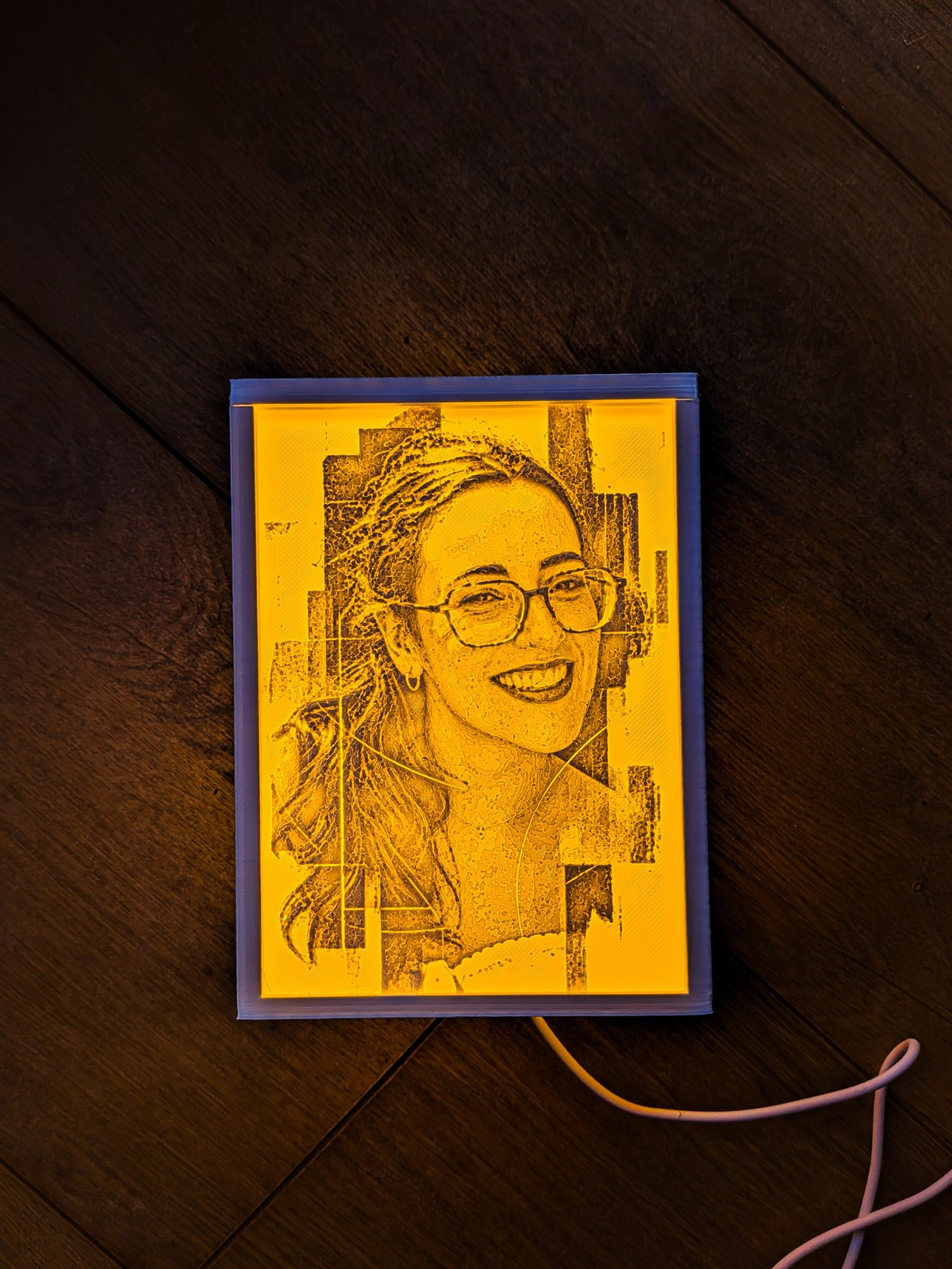
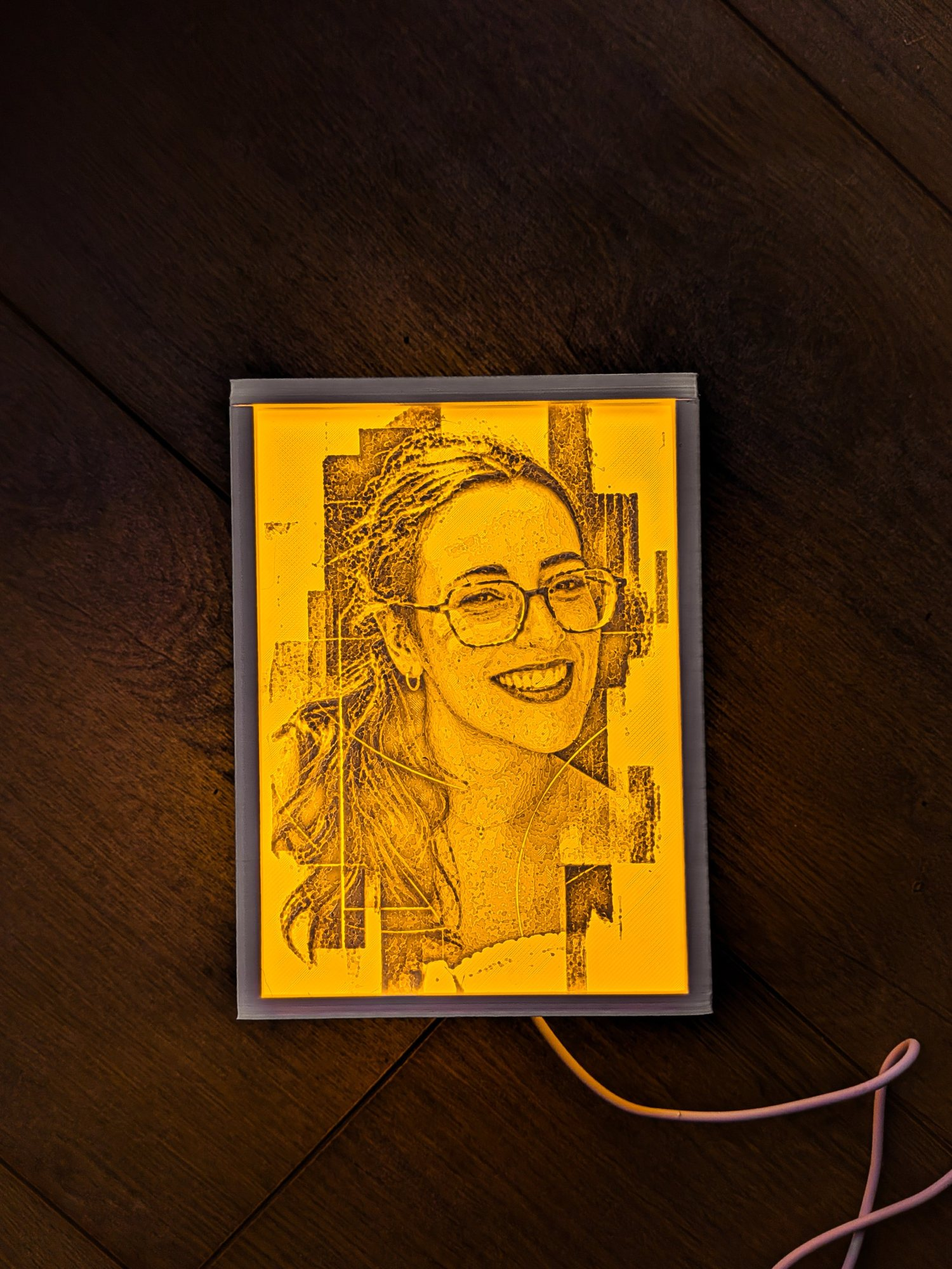
Colour grading: second (vertical) film with the same controls; films pause when scrolled past; title line; new lamp cover
Claude-Session: https://claude.ai/code/session_016ZKoocUMpGUNjfP95pTU22

Changed region(s): [[0.2147, 0.279, 0.736, 0.589], [0.736, 0.62, 0.7667, 0.806], [0.2453, 0.775, 0.276, 0.806]]

diff --git a/index.html b/index.html
@@ -35,7 +35,7 @@
   <link rel="stylesheet" href="look.css?v=7">
   <link rel="stylesheet" href="read.css?v=9">
   <link rel="stylesheet" href="journal.css?v=13">
-<link rel="stylesheet" href="voice.css?v=53">
+<link rel="stylesheet" href="voice.css?v=54">
   <script type="importmap">
     { "imports": { "three": "./vendor/three/three.module.min.js" } }
   </script>
@@ -83,7 +83,7 @@
           </div>
 
           <p class="hero__role">
-            <span class="hero__role-t">Harigovind Sajimon, Multidisciplinary Designer</span>
+            <span class="hero__role-t">Harigovind Sajimon &ndash; Multidisciplinary Designer</span>
             <span class="hero__role-s">Brand, 3D, UI and motion &middot; Senior Designer at Studio Paperheads</span>
           </p>
 
@@ -156,7 +156,7 @@
         </li>
         <li class="cw__item">
           <a class="cw__card" href="#project/lithophane-lamp" data-project="lithophane-lamp">
-            <span class="cw__media"><img src="images/index/lithophane-lamp.jpg?v=3" alt="Lithophane Lamp" loading="lazy" decoding="async"></span>
+            <span class="cw__media"><img src="images/index/lithophane-lamp.jpg?v=4" alt="Lithophane Lamp" loading="lazy" decoding="async"></span>
             <span class="cw__no">06</span>
             <span class="cw__name">Lithophane Lamp</span>
             <span class="cw__cat">3D Printing &amp; Product Design &middot; 2026</span>
@@ -230,6 +230,7 @@
       <span class="lk__no" aria-hidden="true">04</span>
       <h2 class="grade__title" id="gradeTitle">Color Grading</h2>
     </header>
+    <div class="grade__films">
     <div class="cs-frame film" id="gradeFilm">
           <iframe src="https://player.vimeo.com/video/1211043548?title=0&amp;byline=0&amp;portrait=0&amp;badge=0&amp;autopause=0&amp;controls=0&amp;dnt=1&amp;player_id=0&amp;app_id=58479" allow="autoplay; fullscreen; picture-in-picture; encrypted-media" referrerpolicy="strict-origin-when-cross-origin" title="In the time between things" tabindex="-1"></iframe>
           <button type="button" class="film__hit" aria-label="Play">
@@ -242,7 +243,21 @@
             <button type="button" class="film__btn film__mute">Sound off</button>
             <button type="button" class="film__btn film__fs">Full screen</button>
           </div>
-        </div>
+    </div>
+    <div class="cs-frame film film--tall" id="gradeFilm2">
+          <iframe src="https://player.vimeo.com/video/1250696100?title=0&amp;byline=0&amp;portrait=0&amp;badge=0&amp;autopause=0&amp;controls=0&amp;dnt=1&amp;player_id=0&amp;app_id=58479" allow="autoplay; fullscreen; picture-in-picture; encrypted-media" referrerpolicy="strict-origin-when-cross-origin" title="Colour grading, vertical film" tabindex="-1"></iframe>
+          <button type="button" class="film__hit" aria-label="Play">
+            <span class="film__play">Play</span>
+          </button>
+          <div class="film__bar">
+            <button type="button" class="film__btn film__toggle">Play</button>
+            <div class="film__track" role="slider" tabindex="0" aria-label="Seek" aria-valuemin="0" aria-valuemax="100" aria-valuenow="0"><i class="film__fill"></i></div>
+            <span class="film__time">00:00</span>
+            <button type="button" class="film__btn film__mute">Sound off</button>
+            <button type="button" class="film__btn film__fs">Full screen</button>
+          </div>
+    </div>
+    </div>
     <div class="grade__foot"><button type="button" class="bar__top" data-totop>Back to top</button></div>
   </div>
 </section>
@@ -519,13 +534,13 @@
 
   <script src="journal-config.js?v=14"></script>
   <script src="journal.js?v=13"></script>
-  <script src="script.js?v=16"></script>
+  <script src="script.js?v=17"></script>
   <script src="reel.js?v=5"></script>
   <script type="module" src="archive-page.js?v=10"></script>
     <script src="look.js?v=11"></script>
   <script src="read.js?v=13"></script>
   <script src="cursor.js?v=9" defer></script>
   <script src="photo-grid.js?v=3" defer></script>
-  <script src="film.js?v=1" defer></script>
+  <script src="film.js?v=2" defer></script>
 </body>
 </html>

diff --git a/film.js b/film.js
@@ -6,8 +6,13 @@
    Uses Vimeo's Player SDK, loaded only when the film is near.
    ========================================================= */
 (function () {
-  var root = document.getElementById('gradeFilm');
-  if (!root) return;
+  var films = [];
+  function pauseOthers(me) { films.forEach(function (f) { if (f !== me && f.player) f.player.pause().catch(function () {}); }); }
+  document.querySelectorAll('.film').forEach(setup);
+
+function setup(root) {
+  var me = { player: null };
+  films.push(me);
   var iframe = root.querySelector('iframe');
   var hit = root.querySelector('.film__hit');
   var toggleBtn = root.querySelector('.film__toggle');
@@ -28,9 +33,9 @@
 
   function init() {
     if (player || !window.Vimeo) return;
-    player = new window.Vimeo.Player(iframe);
+    player = me.player = new window.Vimeo.Player(iframe);
     player.getDuration().then(function (d) { dur = d; timeEl.textContent = '00:00 / ' + fmt(d); });
-    player.on('play', function () { setPlaying(true); root.classList.add('has-started'); });
+    player.on('play', function () { setPlaying(true); root.classList.add('has-started'); pauseOthers(me); });
     player.on('pause', function () { setPlaying(false); });
     player.on('ended', function () { setPlaying(false); });
     player.on('timeupdate', function (e) {
@@ -43,14 +48,23 @@
   }
   function load() {
     if (window.Vimeo) return init();
-    var s = document.createElement('script');
-    s.src = 'https://player.vimeo.com/api/player.js';
-    s.onload = init;
-    document.head.appendChild(s);
+    var s = document.querySelector('script[data-vimeo-sdk]');
+    if (!s) {
+      s = document.createElement('script');
+      s.src = 'https://player.vimeo.com/api/player.js';
+      s.setAttribute('data-vimeo-sdk', '');
+      document.head.appendChild(s);
+    }
+    s.addEventListener('load', init);
   }
   new IntersectionObserver(function (es, io) {
     if (es.some(function (e) { return e.isIntersecting; })) { load(); io.disconnect(); }
   }, { rootMargin: '600px' }).observe(root);
+
+  // scrolled past: the film pauses on its own
+  new IntersectionObserver(function (es) {
+    es.forEach(function (e) { if (!e.isIntersecting && player && playing && !document.fullscreenElement) player.pause().catch(function () {}); });
+  }, { threshold: 0.2 }).observe(root);
 
   function playPause() {
     if (!player) return;
@@ -101,4 +115,5 @@
     idleT = setTimeout(function () { if (playing) root.classList.add('is-idle'); }, 2200);
   });
   root.addEventListener('pointerleave', function () { if (playing) root.classList.add('is-idle'); });
+}
 })();

diff --git a/voice.css b/voice.css
@@ -608,3 +608,14 @@ html, body { overflow-x: clip; }
   .cw.is-pinned .cw__desc { display: -webkit-box; -webkit-line-clamp: 2; -webkit-box-orient: vertical; overflow: hidden; }
   .cw.is-pinned .cw__head { margin-bottom: 20px; }
 }
+
+/* Color Grading: a wide film and a vertical one, the same height side by side */
+.grade__films { display: grid; grid-template-columns: 1.7778fr 0.5625fr; gap: clamp(16px, 2vw, 28px); align-items: start; }
+.chroma__showcase .film--tall { aspect-ratio: 9 / 16; width: 100%; }
+.film--tall .film__bar { flex-wrap: wrap; row-gap: 4px; column-gap: 12px; font-size: 12px; }
+.film--tall .film__track { order: -1; flex-basis: 100%; }
+.film--tall .film__time { margin-right: auto; }
+@media (max-width: 760px) {
+  .grade__films { grid-template-columns: 1fr; }
+  .chroma__showcase .film--tall { width: min(100%, calc(78svh * 9 / 16)); margin: 0 auto; }
+}

diff --git a/script.js b/script.js
@@ -190,7 +190,7 @@
   /* Project case studies are loaded from projects.json (ported from the old
      portfolio). Rendered by renderBlocks() into the instrument-panel language. */
   var projectData = {};
-  fetch('projects.json?v=14')
+  fetch('projects.json?v=15')
     .then(function (r) { return r.json(); })
     .then(function (d) {
       projectData = d;
